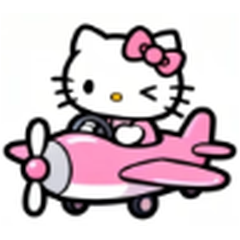
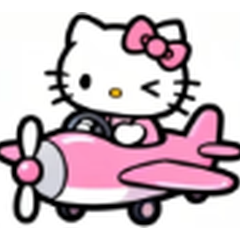
fix: 飞机图标放大与学习/健身模块同档 (fill 40.2%→47.2%)
用户反馈飞机图标略小, 参照其他模块 Kitty 大小调整:
- 源图 96x86, 紧致裁切后整体放大 1.08 倍再居中
- 仅切 ~3px 翼尖透明边(源图 96 宽切 3px), 不影响造型
- 实心填充率: 40.2% → 47.2% (学习 43.7% / 健身 49.9% / 飞机 47.2%, 三者同档)
- 覆盖 kitty-cart-* 全套 8 文件 (tiny/small/thumb/medium/card/header/hero/hero.webp)
- SW 缓存升至 v3.0.2 强制刷新
- 仍在 feat/icon-news-to-airplane 分支, 待确认后合入 mainline-v3.0.0

diff --git a/sw.js b/sw.js
@@ -1,7 +1,7 @@
 /* Hello Kitty 治愈工作台 — Service Worker
    离线优先缓存策略 + Kitty 立绘缓存 */
 
-const CACHE_NAME = 'kitty-wb-v3.0.1';
+const CACHE_NAME = 'kitty-wb-v3.0.2';
 const STATIC_ASSETS = [
   './',
   './index.html',
